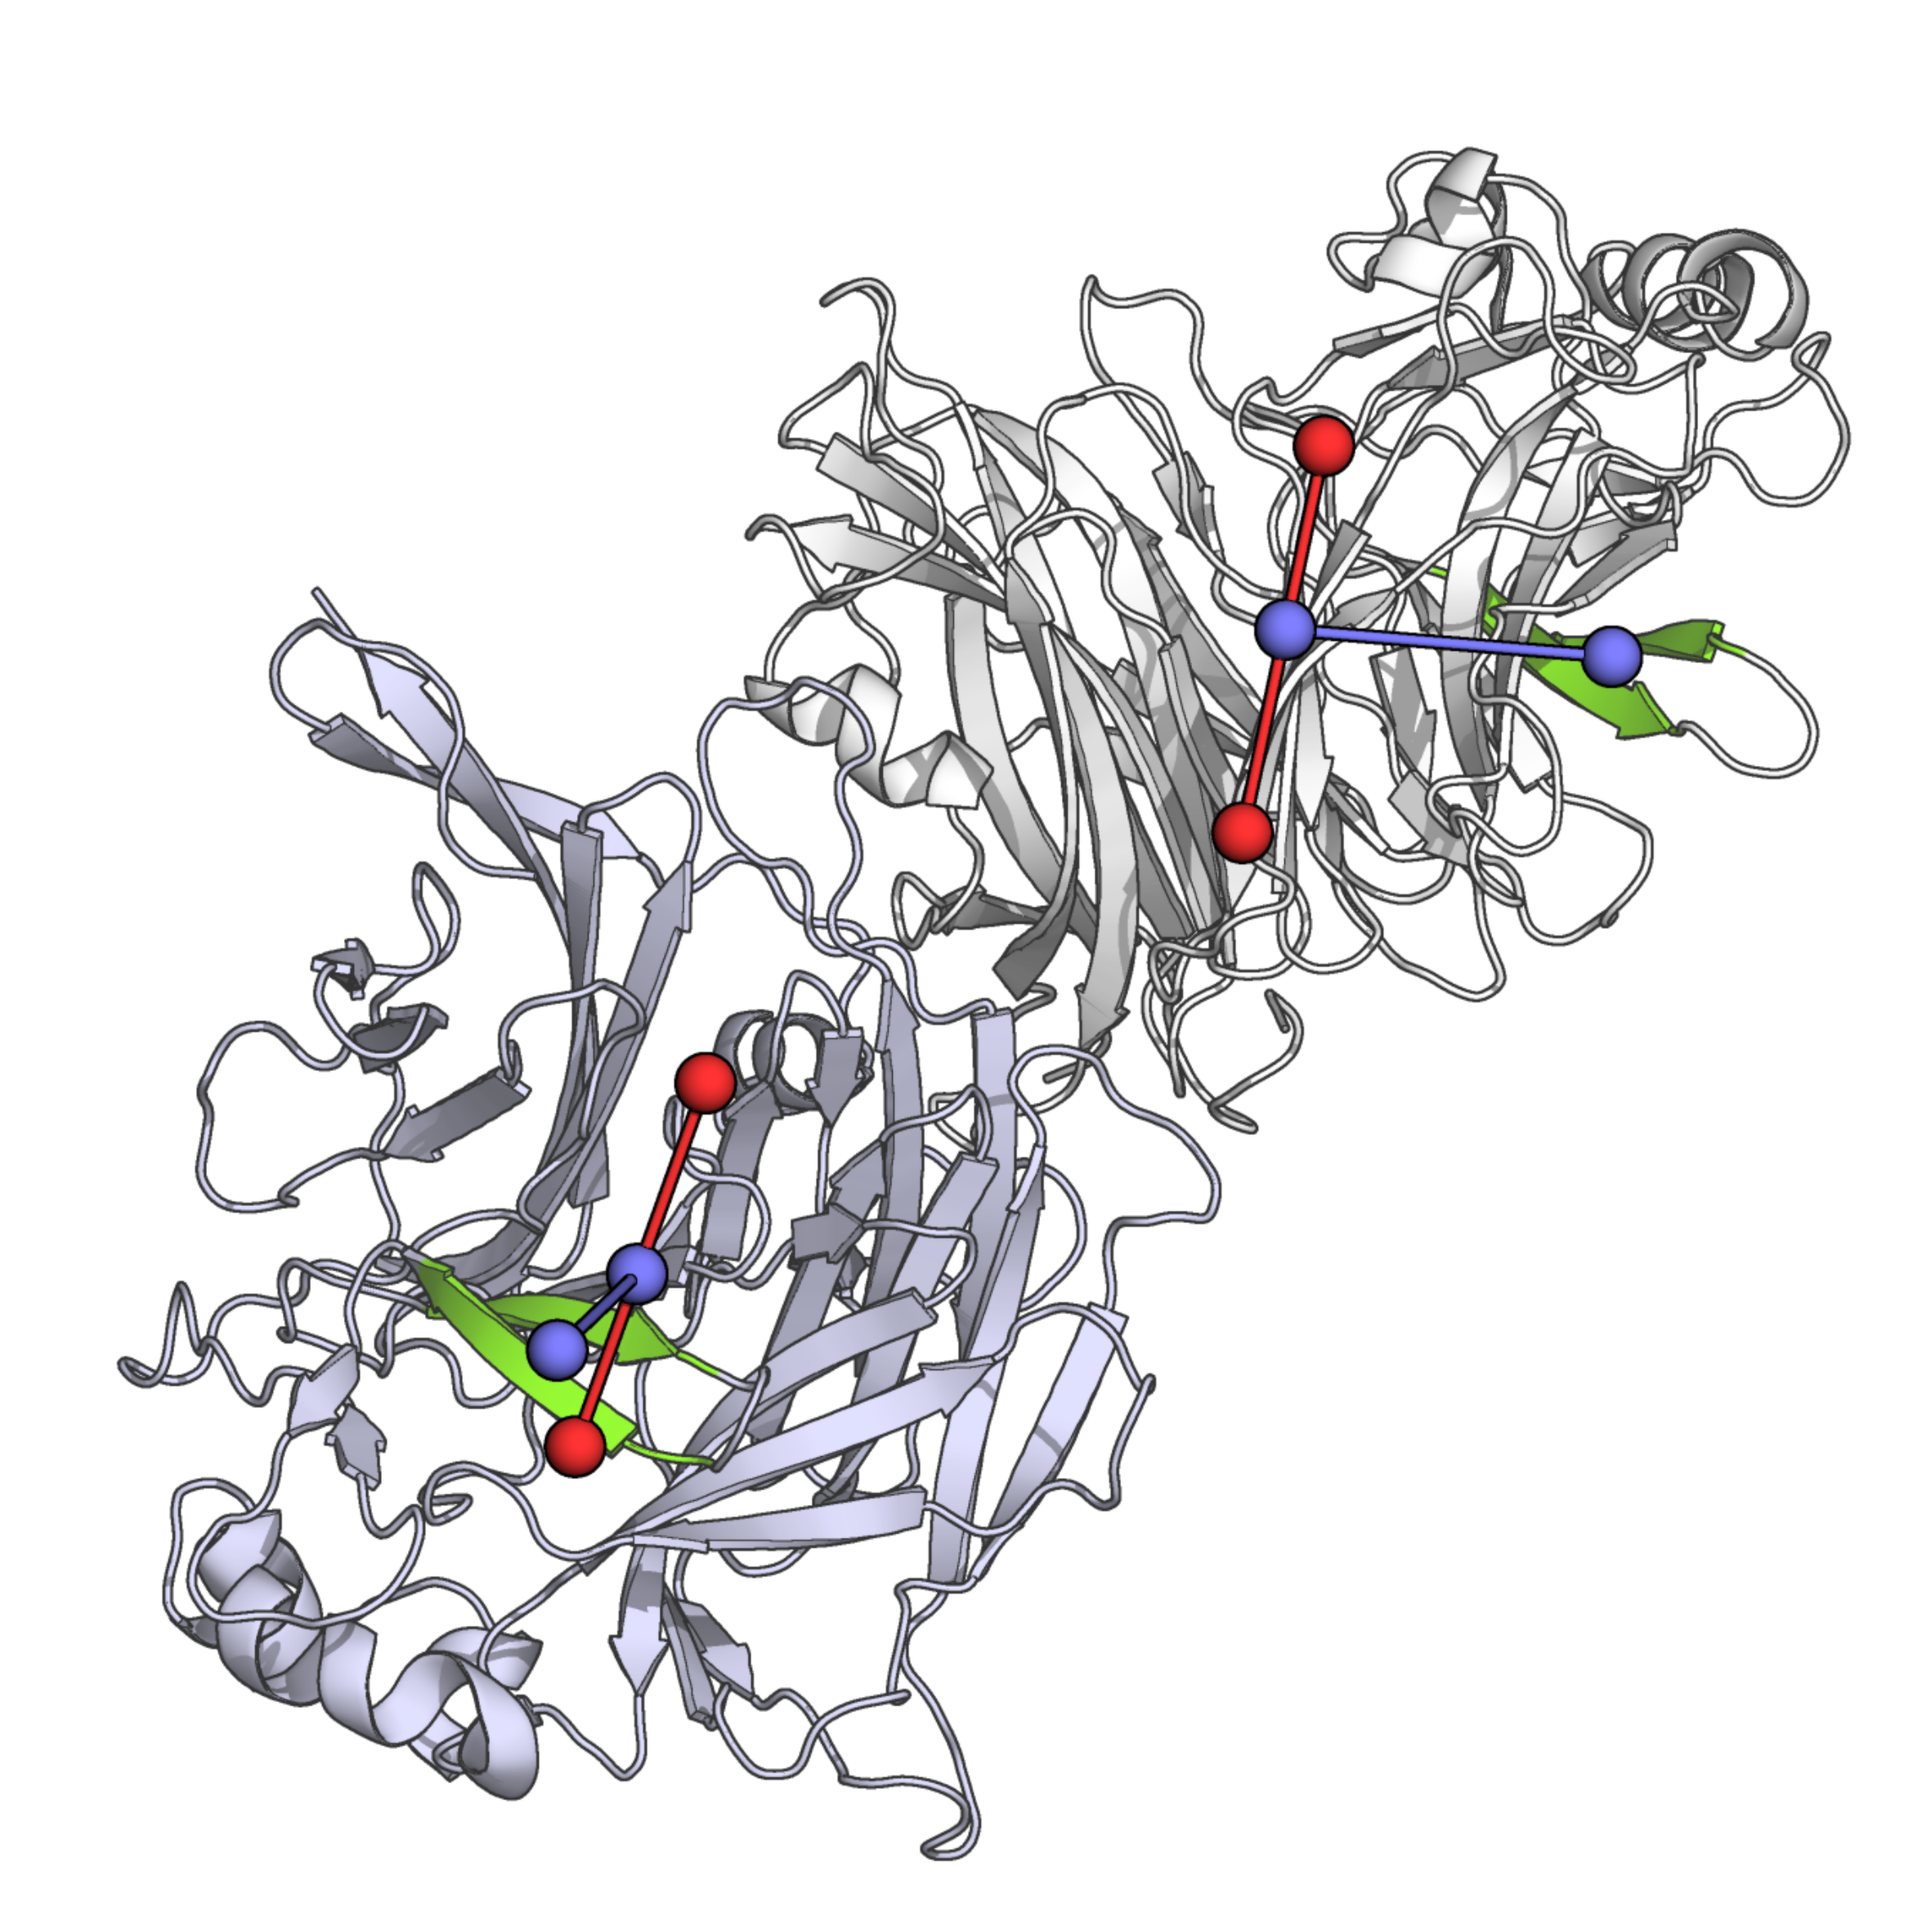
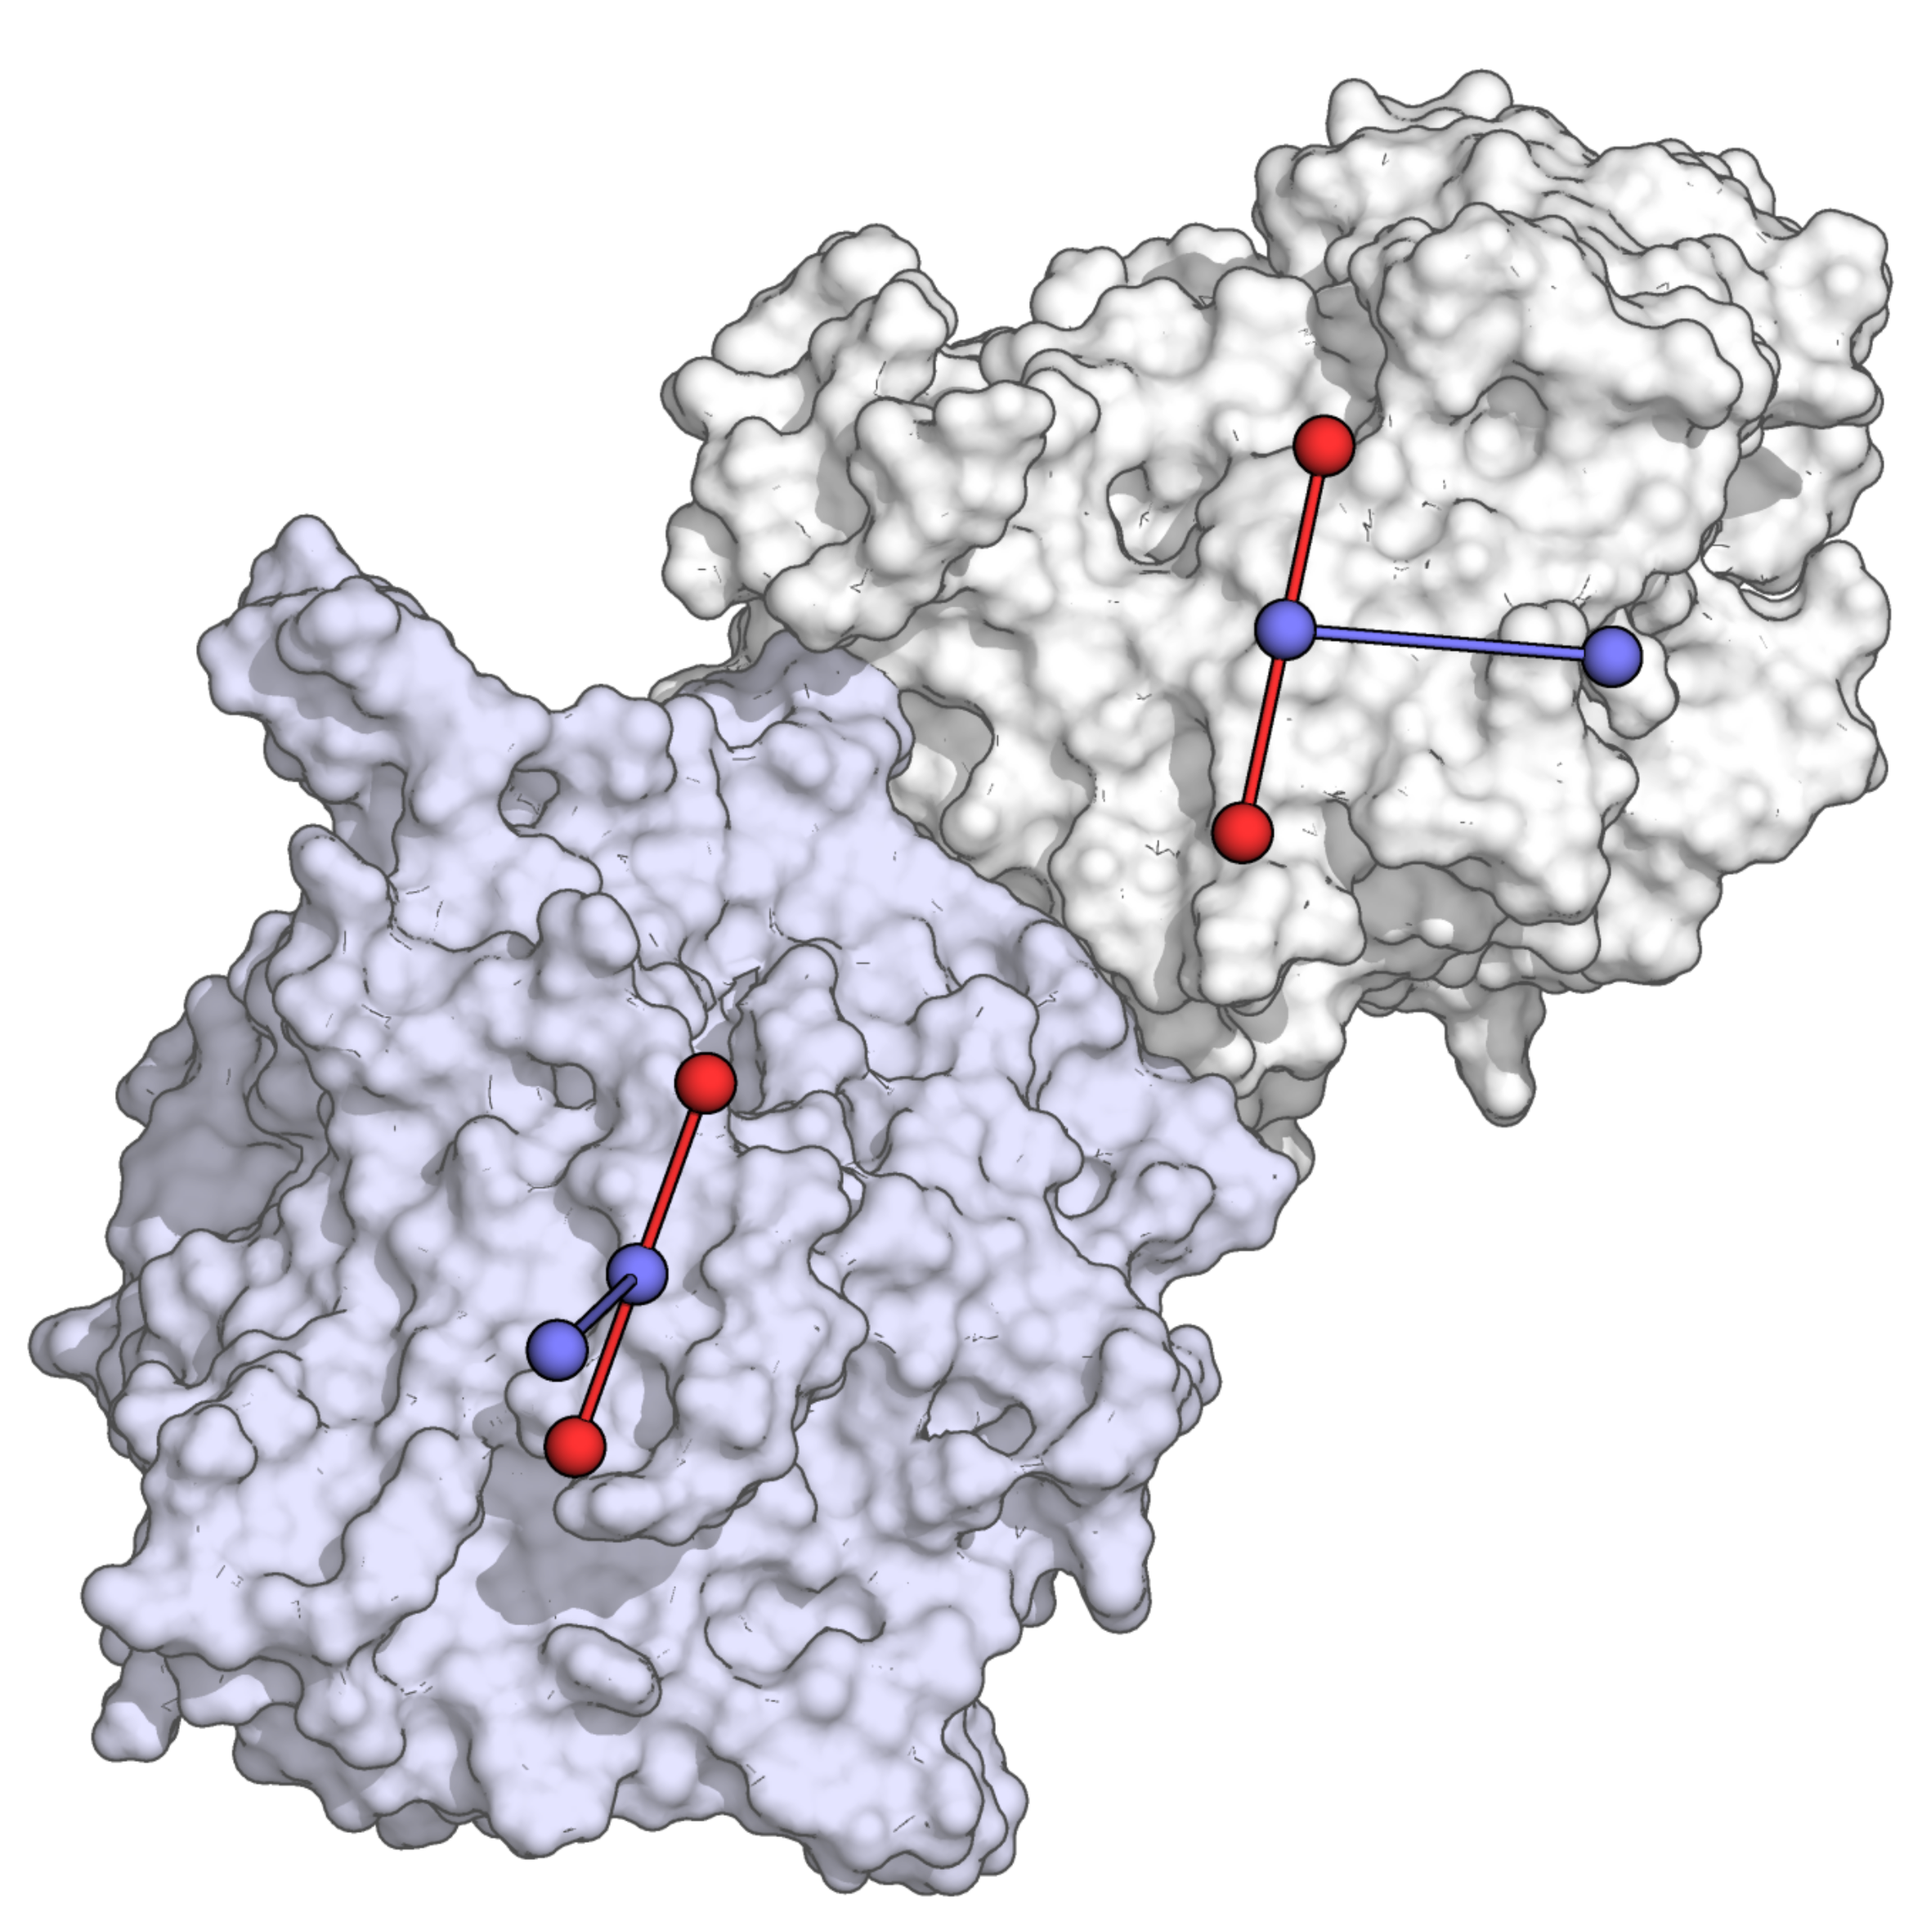
clean

diff --git a/README.md b/README.md
@@ -1,1 +1,6 @@
 # Colvar
+
+<p align="center">
+  <img width="400" src="images/bitmap1.png">
+  <img width="400" src="images/bitmap2.png">
+</p>
